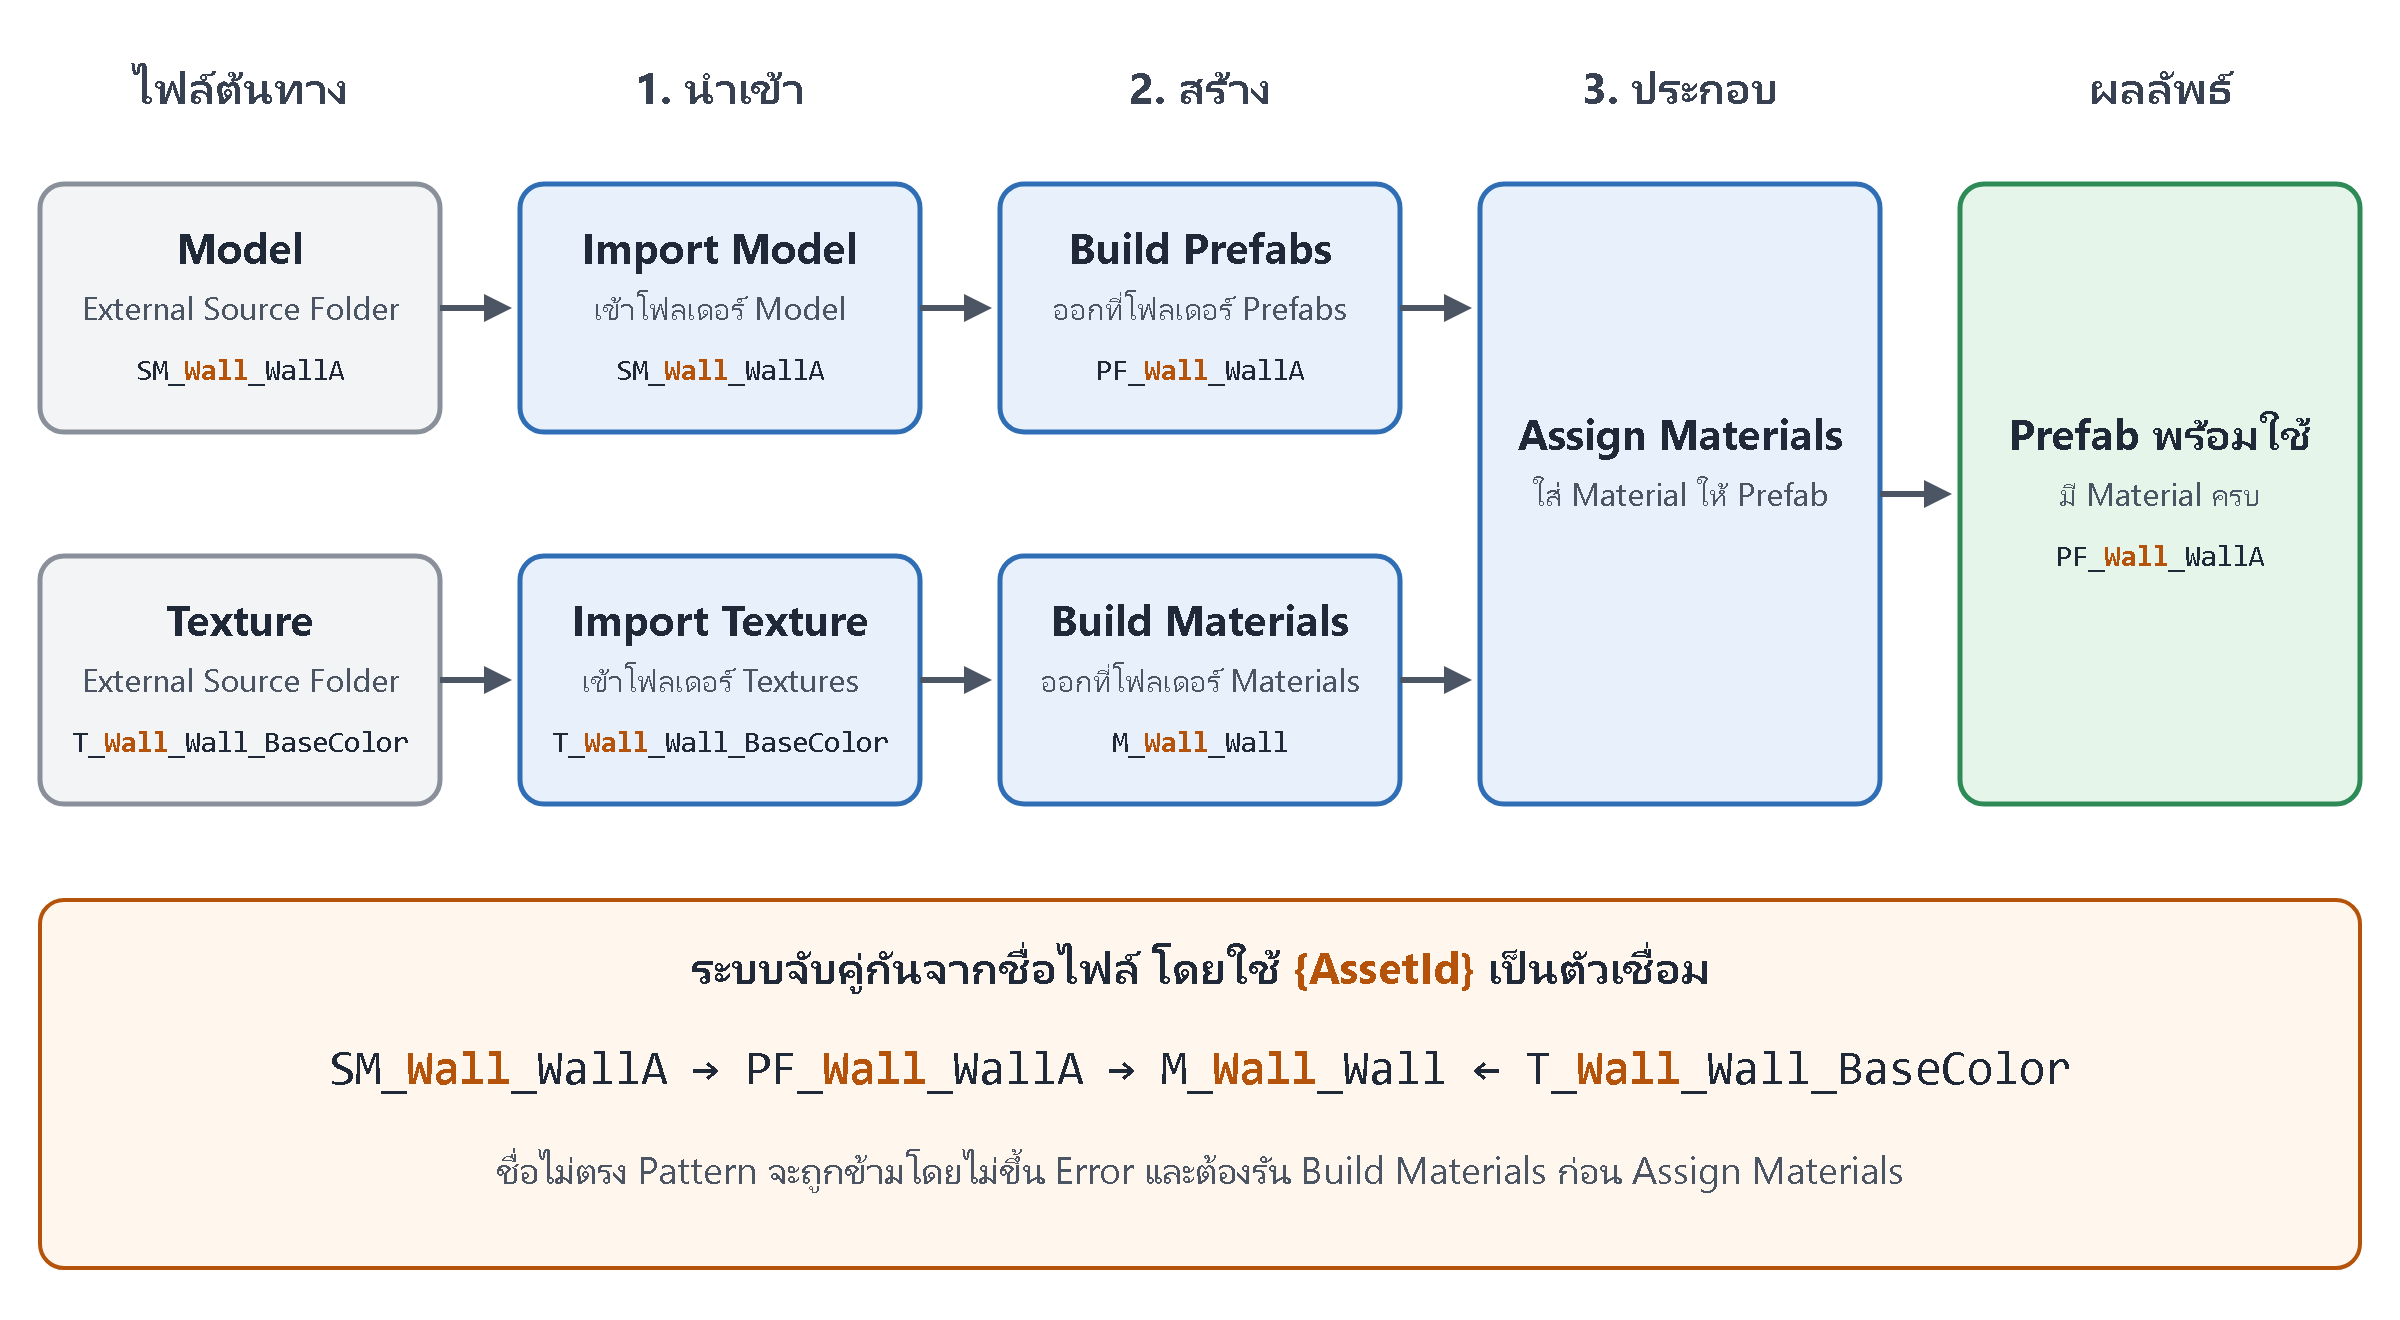
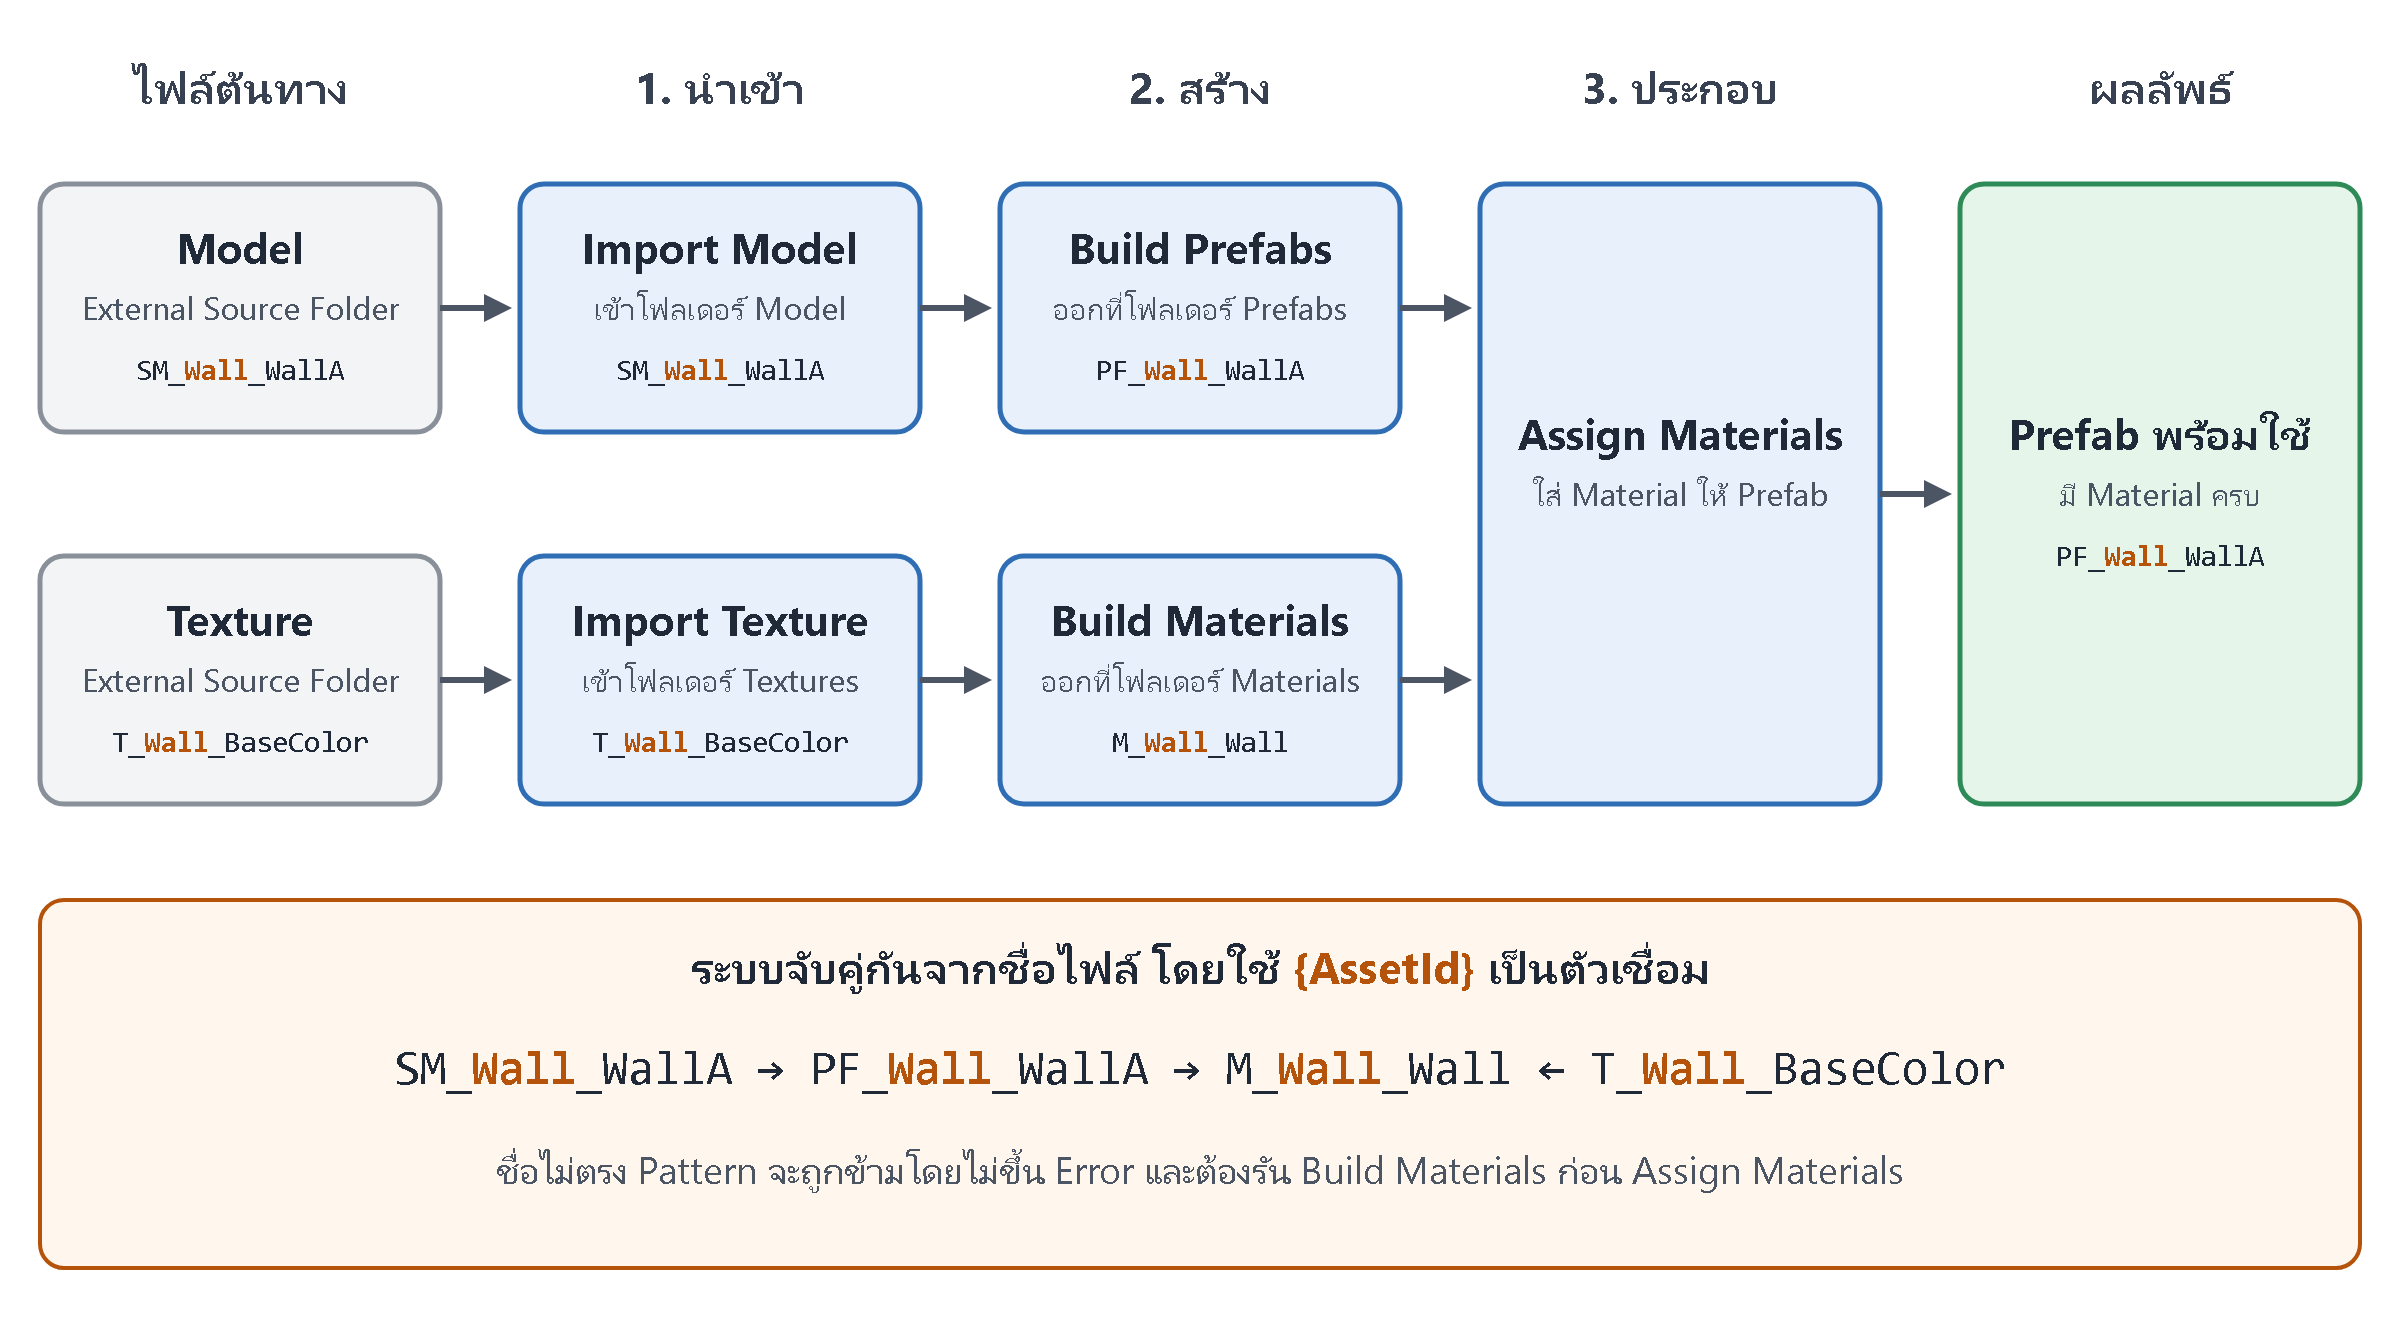
Asset Import: texture names are T_{AssetId}_{MapName}

Changed region(s): [[0.1562, 0.7765, 0.8438, 0.8386], [0.25, 0.5591, 0.375, 0.5902], [0.0312, 0.5591, 0.1562, 0.5902]]

diff --git a/docs/asset_import/quick-start.md b/docs/asset_import/quick-start.md
@@ -35,9 +35,9 @@
 | Model | `SM_{AssetId}_{PartName}` | `SM_Wall_WallA` |
 | Prefab | `PF_{AssetId}_{PartName}` | `PF_Wall_WallA` |
 | Material | `M_{AssetId}_{SlotName}` | `M_Wall_Wall` |
-| Texture | `T_{AssetId}_{SlotName}_{MapName}` | `T_Wall_Wall_BaseColor` |
+| Texture | `T_{AssetId}_{MapName}` | `T_Wall_BaseColor` |
 
-`{PartName}` ของ Model และ Prefab กับ `{SlotName}` ของ Material จะมีหรือไม่มีก็ได้ แต่ Texture ต้องมีครบทุกส่วน เช่น `T_Wall_BaseColor` จะถูกข้าม แก้ Pattern ได้ที่ `UkoreHub > Template Editor... > Naming Convention`
+`{PartName}` ของ Model และ Prefab กับ `{SlotName}` ของ Material จะมีหรือไม่มีก็ได้ แก้ Pattern ได้ที่ `UkoreHub > Template Editor... > Naming Convention`
 
 !!! note "ชื่อไม่ตรงจะไม่ขึ้น Error"
     ไฟล์นั้นจะถูกข้ามไปเฉยๆ ก่อนรันให้ดูรายการ Invalid ใน **Preview Result** ทุกครั้ง
@@ -49,7 +49,7 @@
 
 - **เขียนติดกันแบบ PascalCase** ห้ามมี `_` ในแต่ละส่วน เช่น `ElevatorDoorLeft` ไม่ใช่ `ElevatorDoor_left`
 - **ตั้ง `{AssetId}` ตามชุด Texture ไม่ใช่ตามชิ้น** ชิ้นที่ใช้ Texture ชุดเดียวกันให้ใช้ `{AssetId}` เดียวกัน แล้วแยกชิ้นด้วย `{PartName}` เช่น `SM_BigFloorSeams_FloorSeamsA`
-- **`{SlotName}` ของ Texture ให้เหมือน `{AssetId}`** เช่น `T_Wall_Wall_BaseColor` ถ้าเป็น Texture คนละชุด ให้แยก `{AssetId}` แทน
+- **Texture คนละชุดต้องใช้ `{AssetId}` ต่างกัน** เช่น `T_DoorLeft_BaseColor` กับ `T_DoorRight_BaseColor`
 - **Model กับ Texture ต้องมี `{AssetId}` ตรงกัน** ไม่อย่างนั้น Prefab จะไม่ได้ Material
 - **Model หนึ่งชิ้นได้ Material เดียว** แม้ใน Model จะมีหลาย Slot ระบบจะใส่ตัวเดียวกันทุก Slot ถ้าต้องการหลาย Material ให้แยก Mesh เป็นคนละ Model
 - **เช็กชื่อก่อน Export** ตัวอักษรพิเศษอาจกลายเป็นรหัส เช่น `SM_CubeFBXASC046040`
@@ -60,11 +60,11 @@
 
 | `{MapName}` | ใช้เป็น | ตัวอย่าง |
 | --- | --- | --- |
-| `BaseColor` | สีพื้น | `T_Wall_Wall_BaseColor` |
-| `Normal` | Normal Map | `T_Wall_Wall_Normal` |
-| `MOS` | Metallic, Occlusion, Smoothness รวมในไฟล์เดียว | `T_Wall_Wall_MOS` |
-| `Occlusion` | Occlusion แยกไฟล์ | `T_Wall_Wall_Occlusion` |
-| `Emissive` | ส่วนที่เรืองแสง | `T_Wall_Wall_Emissive` |
+| `BaseColor` | สีพื้น | `T_Wall_BaseColor` |
+| `Normal` | Normal Map | `T_Wall_Normal` |
+| `MOS` | Metallic, Occlusion, Smoothness รวมในไฟล์เดียว | `T_Wall_MOS` |
+| `Occlusion` | Occlusion แยกไฟล์ | `T_Wall_Occlusion` |
+| `Emissive` | ส่วนที่เรืองแสง | `T_Wall_Emissive` |
 
 ชื่ออื่น เช่น `Albedo` หรือ `Diffuse` จะไม่ถูกเสียบเข้า Material
 

diff --git a/docs/unity_ukore_importer/quick-start.md b/docs/unity_ukore_importer/quick-start.md
@@ -73,7 +73,7 @@ Mapping Template (`MaterialTemplate` Asset ที่สร้าง/แก้จ
 ด้วย — Step นี้ไม่อ่าน Prefab หรือ Model เลย
 
 **ระบบตรวจจับ:** Parse ชื่อไฟล์ Texture ทุกไฟล์ด้วย Naming Convention ของ Texture
-(`{AssetType}_{AssetId}_{SlotName}_{MapName}`) ได้ `{AssetId}` กับ `{MapName}`
+(`{AssetType}_{AssetId}_{MapName}`) ได้ `{AssetId}` กับ `{MapName}`
 ออกมา แล้วเทียบ `{MapName}` กับรายชื่อ Slot ที่ตั้งไว้ใน Template (ไม่สนตัวพิมพ์
 เล็กใหญ่) ว่าตรงกันไหม จากนั้น Group Texture ทุกไฟล์ที่มี `{AssetId}` เดียวกันเข้า
 เป็น Material เดียว (ไม่ต้องมี Token Unique/Shared แยก เพราะ Group ด้วย
